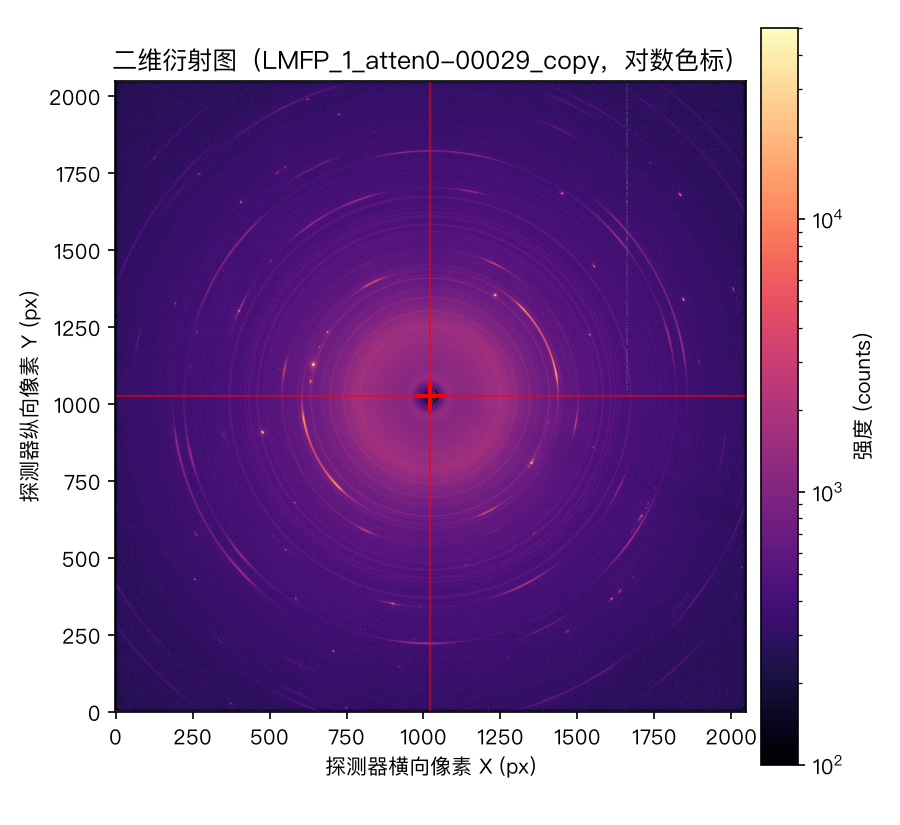
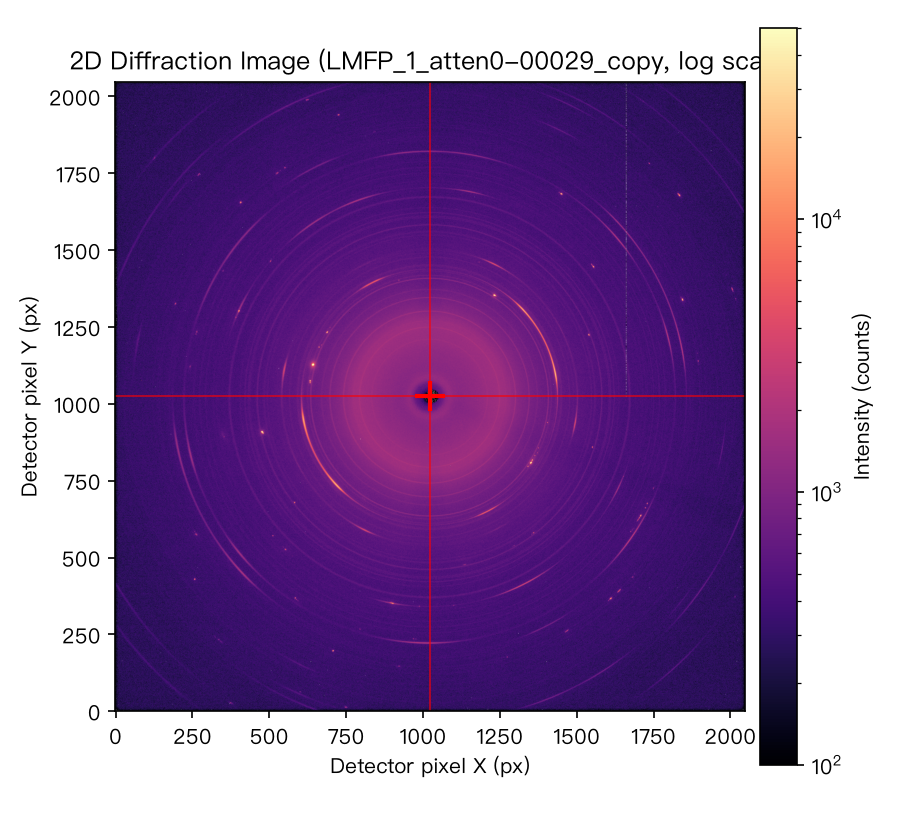
Use English labels in output images

diff --git a/scripts/view_diffraction.py b/scripts/view_diffraction.py
@@ -92,9 +92,9 @@ def main() -> None:
     #   origin="lower" : 数组第 0 行画在下方（数学坐标习惯，探测器也是这么摆放的）
     im = ax.imshow(data, cmap="magma", norm=LogNorm(vmin=100, vmax=50000), origin="lower")
 
-    ax.set_title(f"二维衍射图（{tag}，对数色标）")
-    ax.set_xlabel("探测器横向像素 X (px)")
-    ax.set_ylabel("探测器纵向像素 Y (px)")
+    ax.set_title(f"2D Diffraction Image ({tag}, log scale)")
+    ax.set_xlabel("Detector pixel X (px)")
+    ax.set_ylabel("Detector pixel Y (px)")
 
     # 用红色十字标记剖面经过的圆心，方便核对位置对不对
     prof_cy, prof_cx = center if center is not None else (h / 2.0, w / 2.0)
@@ -103,7 +103,7 @@ def main() -> None:
     ax.plot(prof_cx, prof_cy, "+", color="r", ms=14, mew=2)   # 圆心处的红色十字
 
     cbar = fig.colorbar(im, ax=ax, pad=0.02)   # 颜色条：把颜色和强度数值对应起来
-    cbar.set_label("强度 (counts)")
+    cbar.set_label("Intensity (counts)")
 
     fig.tight_layout()   # 自动收紧边距，防止标签被裁掉
     fig.savefig(outdir / f"{tag}_image.png", dpi=150)  # 存成 PNG，dpi 控制清晰度
@@ -116,9 +116,9 @@ def main() -> None:
 
     fig2, ax2 = plt.subplots(figsize=(7, 3.5))
     ax2.plot(t, profile, linewidth=1.2)  # plot(x, y)：把点连成曲线
-    ax2.set_title(f"过圆心的强度剖面（与水平方向夹角 {args.angle:g}°）")
-    ax2.set_xlabel("到圆心的距离 (px)（负 = 左侧，正 = 右侧）")
-    ax2.set_ylabel("强度 (counts)")
+    ax2.set_title(f"Intensity Profile Through Center ({args.angle:g}° from horizontal)")
+    ax2.set_xlabel("Distance from center (px) (negative = left, positive = right)")
+    ax2.set_ylabel("Intensity (counts)")
     ax2.grid(True, alpha=0.3)  # 浅色网格线，方便读数
     fig2.tight_layout()
     fig2.savefig(outdir / f"{tag}_profile.png", dpi=150)
